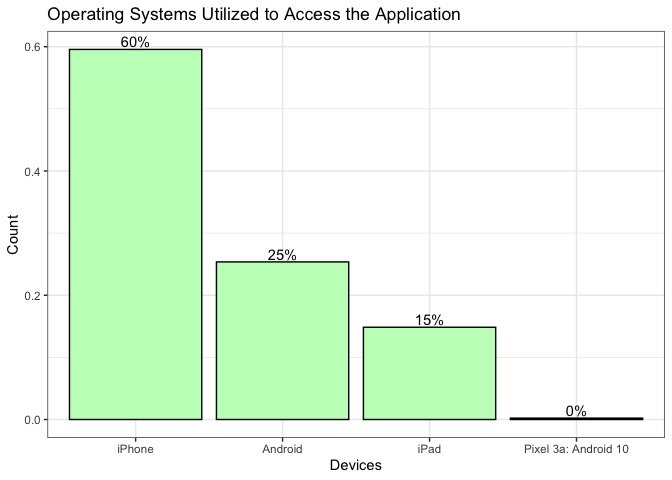
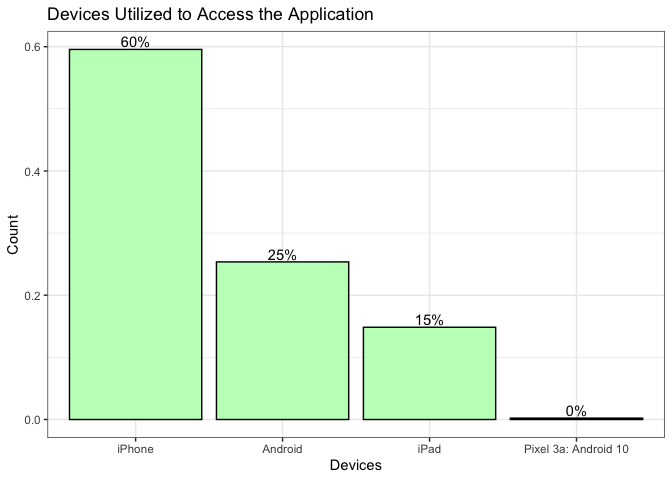
3/29 cleaning

Changed region(s): [[0.0625, 0.0, 0.6875, 0.0625]]

diff --git a/Subquestions.md b/Subquestions.md
@@ -230,6 +230,8 @@ Unique users (aid)
 
 # App Use by Device
 
+## Devices Utilized to Access the Application
+
     ## 'data.frame':    11220 obs. of  9 variables:
[1 lines of base64/hex data omitted]
     ##  $ evDesc1   : chr  "1.0.4 (34)" "1.0.4 (34)" "1.0.4 (34)" "1.0.0 (30)" ...
@@ -302,7 +304,40 @@ Unique users (aid)
 
 ## Frequency of Different Links by Language
 
+    str(evViewPage.01)
+
+    ## 'data.frame':    3671 obs. of  6 variables:
[1 lines of base64/hex data omitted]
+    ##  $ evDesc1: chr  "Labels Search" "Labels Search" "PICOL Search" "Resources" ...
+    ##  $ evDesc2: chr  "en" "en" "en" "en" ...
+    ##  $ evDesc3: chr  "" "" "" "" ...
+    ##  $ evType : chr  "evViewPage" "evViewPage" "evViewPage" "evViewPage" ...
+    ##  $ ts     : chr  "2020-08-26T00:05:03.601Z" "2020-08-26T00:05:23.939Z" "2020-08-26T00:05:35.367Z" "2020-08-26T00:05:35.795Z" ...
+
+    per_data3 <- evViewPage.01 %>%
+      count(evDesc1) %>% 
+      mutate(per = n / sum(n),
+             per_label = paste0(round(per*100), "%"))
+
+    ggplot(per_data3, aes(x = reorder(n, -per), y=per)) + 
+      geom_bar(stat = "identity", fill = "lightblue", color = "black") + 
+      geom_text(aes(label=per_label), vjust=-0.25) + 
+      labs(x = "Links", y = "Count",  
+           title = "Overall Frequency of Links") + 
+      scale_y_continuous(labels(scales::percent)) + 
+      theme_bw()  + 
+      scale_x_discrete(labels = c("Labels Search", "HS Label", "PICOL Search", "More", "Resources", "PICOL Label", "Feedback", "About", "EULA", "Partners", "Contact", "Disclaimer", "Privacy", "Update News"))
+
+![](Subquestions_files/figure-markdown_strict/unnamed-chunk-9-1.png)
+
 ![](Subquestions_files/figure-markdown_strict/fre-diff-links-by-language-1.png)
+
+    library("dplyr")
+    table <- (evDownload.01$prodName)
+    table <- sort(table, decreasing = TRUE)
+    table
+    sort(evDownload.01$prodName)
+    table(evDownload.01$prodName)
 
 # Average Session Duration
 
